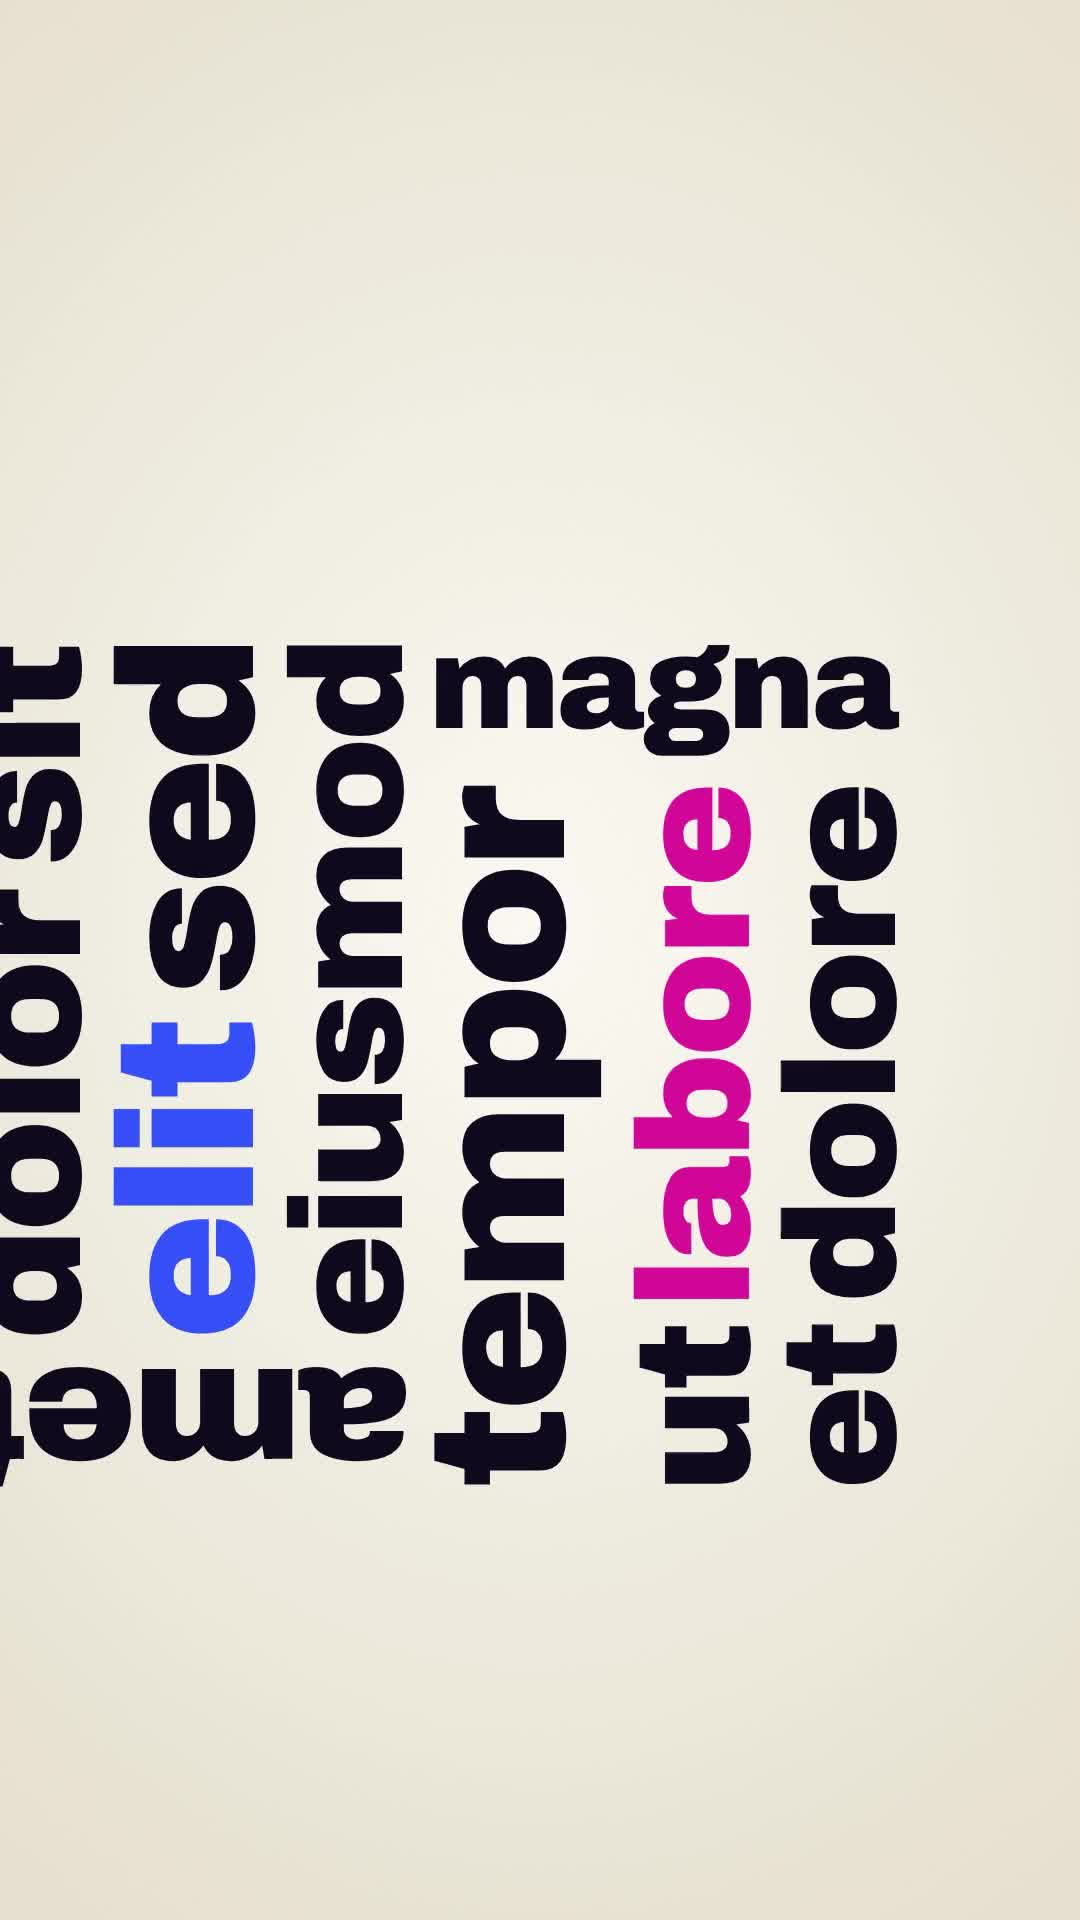
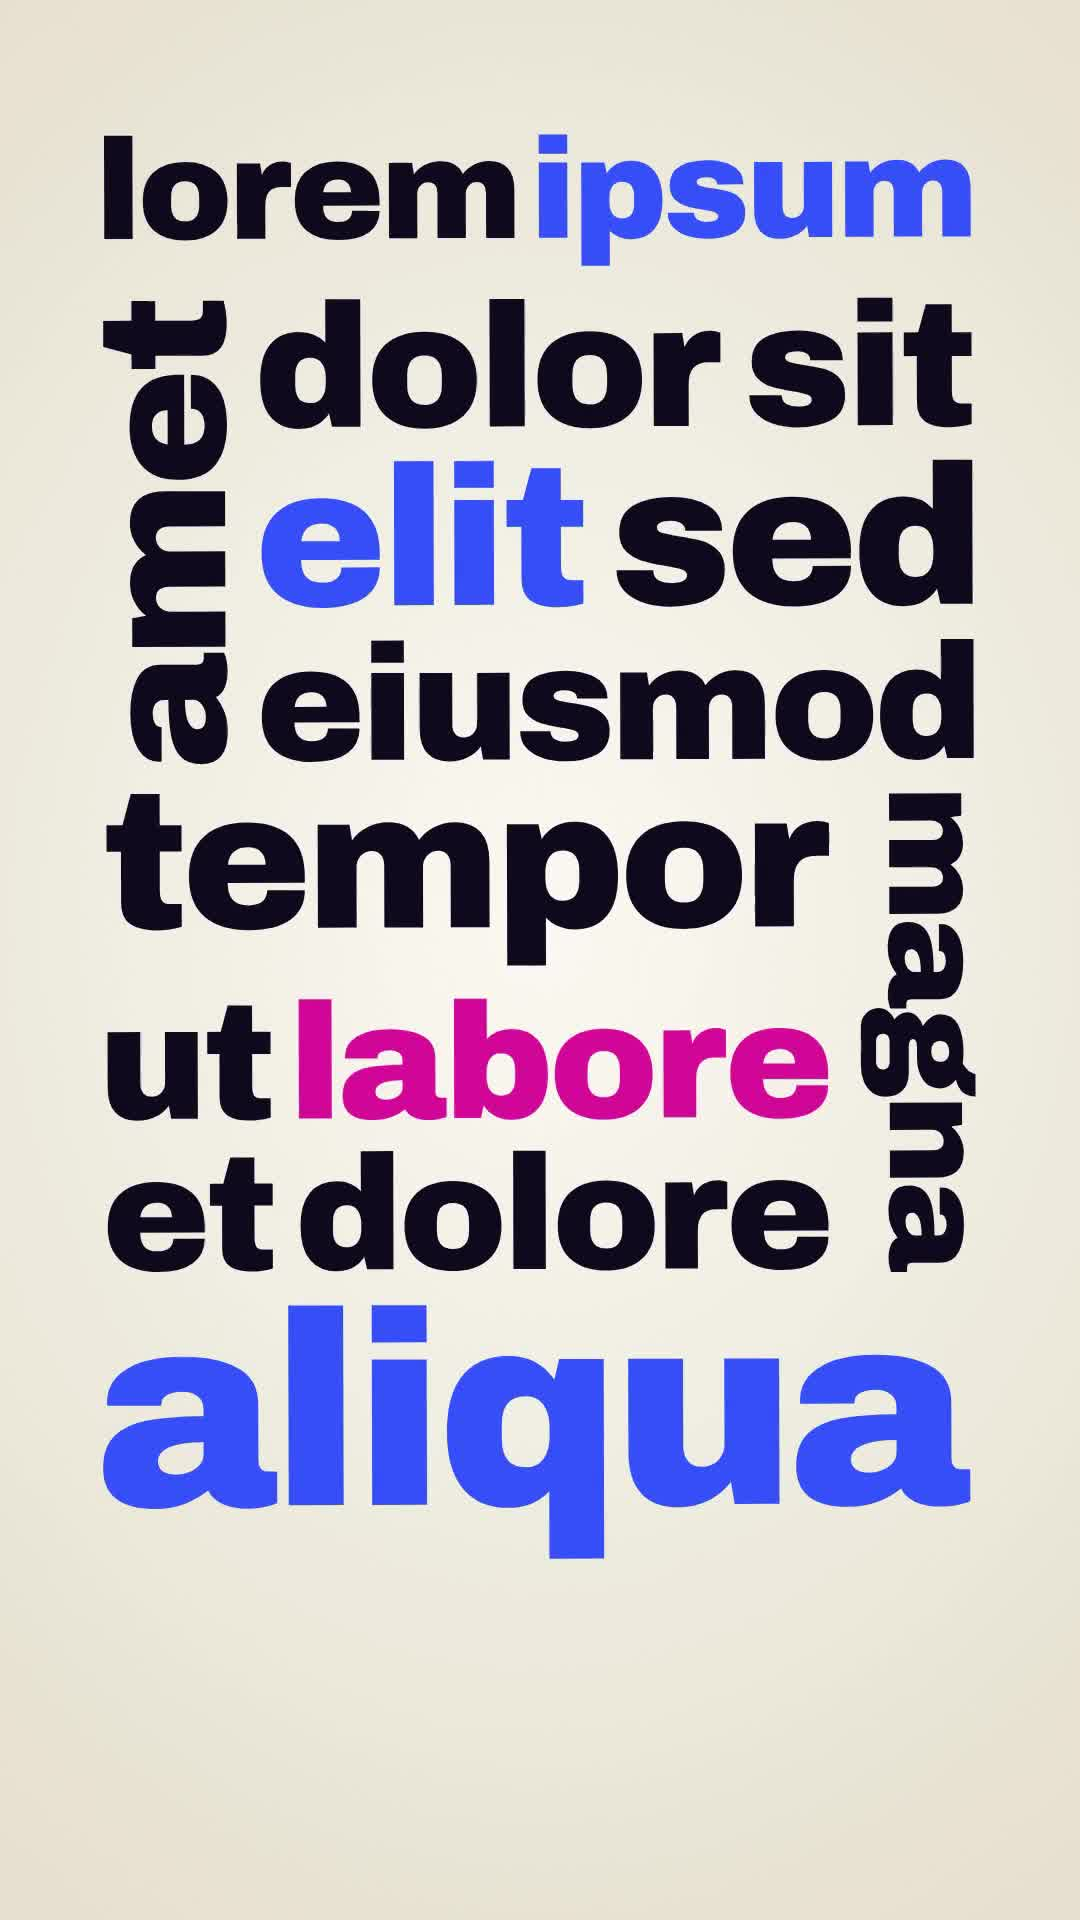
README: overview of all 40 styles and a shortcut per style
The overview image only showed styles 01-13; it now shows every style's
poster. The style table gains a Shortcut column with the /video-style
command for each style. Style 40's poster now shows the settled lockup.

Claude-Session: https://claude.ai/code/session_018Bi4wcjPGYnXSP41z1gKis

diff --git a/README.md b/README.md
@@ -1,51 +1,51 @@
 # video-style-templates
 
-40 vertical (9:16) video editing styles, reverse-engineered from reference reels and rebuilt as editable [HyperFrames](https://hyperframes.heygen.com) templates (HTML + GSAP → MP4). Packaged as a Claude Code plugin: apply a style with `/video-style <style> <brief>`.
+40 vertical (9:16) video editing styles, reverse-engineered from reference reels and rebuilt as editable [HyperFrames](https://hyperframes.heygen.com) templates (HTML + GSAP → MP4). Packaged as a Claude Code plugin: apply a style with `/video-style <style> <brief>`. Each style's shortcut is in the table below; the number works too (`/video-style 37`).
 
 ![overview](overview.jpg)
 
-| # | Style | Best for | Footage |
-|---|---|---|---|
-| 01 | [Kinetic Type Collage](styles/01-kinetic-type-collage/STYLE.md) | Metaphor stories told in type, colour fields, tumbling props | — |
-| 02 | [Editorial Halftone](styles/02-editorial-halftone/STYLE.md) | Magazine-style quote reels, halftone imagery, glitch beat, script sign-off | — |
-| 03 | [Creator Tool Promo](styles/03-creator-tool-promo/STYLE.md) | Talking-head tool demos: 3D hook words, keyword captions, split UI | ✔ |
-| 04 | [Poster Motion](styles/04-poster-motion/STYLE.md) | Animated poster series: condensed gradient headlines, cut-outs, swoosh | — |
-| 05 | [Frame-Rhythm Hook](styles/05-frame-rhythm-hook/STYLE.md) | Word-per-beat captions + frame-exact 8-3-3-4-5 B-roll burst | ✔ |
-| 06 | [Step-by-Step Studio](styles/06-step-by-step-studio/STYLE.md) | How-to talking heads: STEP titles, web-flow mockups, VHS smear | ✔ |
-| 07 | [Podcast Emphasis Captions](styles/07-podcast-emphasis-captions/STYLE.md) | Podcast clips: thin captions + giant coloured italic emphasis words | ✔ |
-| 08 | [Glass SaaS Explainer](styles/08-glass-saas-explainer/STYLE.md) | B2B/SaaS explainers: presenter cut-out, glass UI, metaphor objects | — |
-| 09 | [AI-World Kinetic Type](styles/09-ai-world-kinetic-type/STYLE.md) | Launch reels: multicolour, multi-font 3D word stacks around the presenter | ✔ |
-| 10 | [3D Metaphor Explainer](styles/10-3d-metaphor-explainer/STYLE.md) | Agency pitches: 3D objects, green blocks, red condensed type | — |
-| 11 | [Swiss Editorial](styles/11-swiss-editorial/STYLE.md) | Design-led quotes: grid, red block, B&W cut-outs, giant cropped type | — |
-| 12 | [Atmospheric Depth](styles/12-atmospheric-depth/STYLE.md) | Cinematic brand intros: rack focus, light shafts, ink blossoms (ES copy) | — |
-| 13 | [Animated Story Ad](styles/13-animated-story-ad/STYLE.md) | AI-animated DTC story ads with an offer end card | — |
-| 14 | [Fisheye Sphere Text](styles/14-fisheye-sphere-text/STYLE.md) | Hook titles on a fisheye sphere that snap-rolls line by line; gliding fisheye lens | — |
-| 15 | [Paper Cut-out Text](styles/15-paper-cutout-text/STYLE.md) | Bubble letters on torn paper: flutter / tear / stamp in, 12 fps stop motion | ✔ |
-| 16 | [Depth & Orbit Text](styles/16-depth-orbit-text/STYLE.md) | Words peek from behind the subject, helix climb, rising giant letters, depth tunnel | ✔ |
-| 17 | [Word-Pop Captions](styles/17-word-pop-captions/STYLE.md) | Rolling one-word captions, marker underlines, cursor select, circle-reveal cards | ✔ |
-| 18 | [Spiral Orbit Text](styles/18-spiral-orbit-text/STYLE.md) | A sentence sliding along a 3D spiral round the speaker's head, dive-through exit | ✔ |
-| 19 | [Halo Orbit Text](styles/19-halo-orbit-text/STYLE.md) | One line of words orbiting the speaker's head as a tilted halo | ✔ |
-| 20 | [Cube Roll Words](styles/20-cube-roll-words/STYLE.md) | Words on the faces of a 3D bar that tumbles in and rolls one face per beat | ✔ |
-| 21 | [Blinds Unfold Text](styles/21-blinds-unfold-text/STYLE.md) | Giant words cut into slats that swing open like venetian blinds | — |
-| 22 | [Domino Letters](styles/22-domino-letters/STYLE.md) | Thick extruded letters stand up like dominoes, then topple | — |
-| 23 | [Split-Flap Board](styles/23-split-flap-board/STYLE.md) | Departure-board tiles flip through letters into place | ✔ |
-| 24 | [Extruded Title Orbit](styles/24-extruded-title-orbit/STYLE.md) | Thick 3D block title; camera orbits, snaps face-on with a glare | — |
-| 25 | [Page Flip Words](styles/25-page-flip-words/STYLE.md) | One word per page of an open book; pages turn on the spine | — |
-| 26 | [Flag Wave Letters](styles/26-flag-wave-letters/STYLE.md) | Letters ripple like a flag, then a gust blows them away | ✔ |
-| 27 | [Echo Stack Text](styles/27-echo-stack-text/STYLE.md) | A deep trail of outline echoes that collapse into one solid word | — |
-| 28 | [Cube Unfold Text](styles/28-cube-unfold-text/STYLE.md) | A word on every face of a cube that unfolds flat into a cross | — |
-| 29 | [Horizon Crawl](styles/29-horizon-crawl/STYLE.md) | Lines glide away over a neon grid floor; the hero word stands up | — |
-| 30 | [Infinite Spiral Text](styles/30-infinite-spiral-text/STYLE.md) | A phrase streaming endlessly out of a spiral that fills the background | ✔ |
-| 31 | [Wall Perspective Text](styles/31-wall-perspective-text/STYLE.md) | Words painted on the side walls of a room, following their perspective | ✔ |
-| 32 | [Bend Text 3D](styles/32-bend-text-3d/STYLE.md) | A headline on a flexible sheet that bends, rolls into a tube and springs flat | — |
-| 33 | [Horizontal Orbit Text](styles/33-horizontal-orbit-text/STYLE.md) | Upright letters on a horizontal ring orbiting the speaker like a carousel | ✔ |
-| 34 | [3D Pop Letters](styles/34-3d-pop-letters/STYLE.md) | A flat word pops up into candy-coloured 3D blocks, spin-waves, sinks flat | — |
-| 35 | [Tag Pile Drop](styles/35-tag-pile-drop/STYLE.md) | Pill tags drop onto a table one by one into a heap, then fly back up | — |
-| 36 | [Paper Roll Unfold](styles/36-paper-roll-unfold/STYLE.md) | The words themselves roll up like a paper roll and unroll top to bottom | — |
-| 37 | [Snake Text](styles/37-snake-text/STYLE.md) | A sentence slithering diagonally in the shape of a snake, last word as the head | — |
-| 38 | [Contour Rings Text](styles/38-contour-rings-text/STYLE.md) | Lines of text nesting round the speaker's head like contour lines | ✔ |
-| 39 | [Camera Lockup Type](styles/39-camera-lockup-type/STYLE.md) | Words flip in to build a justified block while the camera frames each one | — |
-| 40 | [Turning Camera Type](styles/40-turning-camera-type/STYLE.md) | A flush word puzzle with sideways words; the camera turns 90° to read each one | — |
+| # | Style | Shortcut | Best for | Footage |
+|---|---|---|---|---|
+| 01 | [Kinetic Type Collage](styles/01-kinetic-type-collage/STYLE.md) | `/video-style kinetic-type-collage` | Metaphor stories told in type, colour fields, tumbling props | — |
+| 02 | [Editorial Halftone](styles/02-editorial-halftone/STYLE.md) | `/video-style editorial-halftone` | Magazine-style quote reels, halftone imagery, glitch beat, script sign-off | — |
+| 03 | [Creator Tool Promo](styles/03-creator-tool-promo/STYLE.md) | `/video-style creator-tool-promo` | Talking-head tool demos: 3D hook words, keyword captions, split UI | ✔ |
+| 04 | [Poster Motion](styles/04-poster-motion/STYLE.md) | `/video-style poster-motion` | Animated poster series: condensed gradient headlines, cut-outs, swoosh | — |
+| 05 | [Frame-Rhythm Hook](styles/05-frame-rhythm-hook/STYLE.md) | `/video-style frame-rhythm-hook` | Word-per-beat captions + frame-exact 8-3-3-4-5 B-roll burst | ✔ |
+| 06 | [Step-by-Step Studio](styles/06-step-by-step-studio/STYLE.md) | `/video-style step-by-step-studio` | How-to talking heads: STEP titles, web-flow mockups, VHS smear | ✔ |
+| 07 | [Podcast Emphasis Captions](styles/07-podcast-emphasis-captions/STYLE.md) | `/video-style podcast-emphasis-captions` | Podcast clips: thin captions + giant coloured italic emphasis words | ✔ |
+| 08 | [Glass SaaS Explainer](styles/08-glass-saas-explainer/STYLE.md) | `/video-style glass-saas-explainer` | B2B/SaaS explainers: presenter cut-out, glass UI, metaphor objects | — |
+| 09 | [AI-World Kinetic Type](styles/09-ai-world-kinetic-type/STYLE.md) | `/video-style ai-world-kinetic-type` | Launch reels: multicolour, multi-font 3D word stacks around the presenter | ✔ |
+| 10 | [3D Metaphor Explainer](styles/10-3d-metaphor-explainer/STYLE.md) | `/video-style 3d-metaphor-explainer` | Agency pitches: 3D objects, green blocks, red condensed type | — |
+| 11 | [Swiss Editorial](styles/11-swiss-editorial/STYLE.md) | `/video-style swiss-editorial` | Design-led quotes: grid, red block, B&W cut-outs, giant cropped type | — |
+| 12 | [Atmospheric Depth](styles/12-atmospheric-depth/STYLE.md) | `/video-style atmospheric-depth` | Cinematic brand intros: rack focus, light shafts, ink blossoms (ES copy) | — |
+| 13 | [Animated Story Ad](styles/13-animated-story-ad/STYLE.md) | `/video-style animated-story-ad` | AI-animated DTC story ads with an offer end card | — |
+| 14 | [Fisheye Sphere Text](styles/14-fisheye-sphere-text/STYLE.md) | `/video-style fisheye-sphere-text` | Hook titles on a fisheye sphere that snap-rolls line by line; gliding fisheye lens | — |
+| 15 | [Paper Cut-out Text](styles/15-paper-cutout-text/STYLE.md) | `/video-style paper-cutout-text` | Bubble letters on torn paper: flutter / tear / stamp in, 12 fps stop motion | ✔ |
+| 16 | [Depth & Orbit Text](styles/16-depth-orbit-text/STYLE.md) | `/video-style depth-orbit-text` | Words peek from behind the subject, helix climb, rising giant letters, depth tunnel | ✔ |
+| 17 | [Word-Pop Captions](styles/17-word-pop-captions/STYLE.md) | `/video-style word-pop-captions` | Rolling one-word captions, marker underlines, cursor select, circle-reveal cards | ✔ |
+| 18 | [Spiral Orbit Text](styles/18-spiral-orbit-text/STYLE.md) | `/video-style spiral-orbit-text` | A sentence sliding along a 3D spiral round the speaker's head, dive-through exit | ✔ |
+| 19 | [Halo Orbit Text](styles/19-halo-orbit-text/STYLE.md) | `/video-style halo-orbit-text` | One line of words orbiting the speaker's head as a tilted halo | ✔ |
+| 20 | [Cube Roll Words](styles/20-cube-roll-words/STYLE.md) | `/video-style cube-roll-words` | Words on the faces of a 3D bar that tumbles in and rolls one face per beat | ✔ |
+| 21 | [Blinds Unfold Text](styles/21-blinds-unfold-text/STYLE.md) | `/video-style blinds-unfold-text` | Giant words cut into slats that swing open like venetian blinds | — |
+| 22 | [Domino Letters](styles/22-domino-letters/STYLE.md) | `/video-style domino-letters` | Thick extruded letters stand up like dominoes, then topple | — |
+| 23 | [Split-Flap Board](styles/23-split-flap-board/STYLE.md) | `/video-style split-flap-board` | Departure-board tiles flip through letters into place | ✔ |
+| 24 | [Extruded Title Orbit](styles/24-extruded-title-orbit/STYLE.md) | `/video-style extruded-title-orbit` | Thick 3D block title; camera orbits, snaps face-on with a glare | — |
+| 25 | [Page Flip Words](styles/25-page-flip-words/STYLE.md) | `/video-style page-flip-words` | One word per page of an open book; pages turn on the spine | — |
+| 26 | [Flag Wave Letters](styles/26-flag-wave-letters/STYLE.md) | `/video-style flag-wave-letters` | Letters ripple like a flag, then a gust blows them away | ✔ |
+| 27 | [Echo Stack Text](styles/27-echo-stack-text/STYLE.md) | `/video-style echo-stack-text` | A deep trail of outline echoes that collapse into one solid word | — |
+| 28 | [Cube Unfold Text](styles/28-cube-unfold-text/STYLE.md) | `/video-style cube-unfold-text` | A word on every face of a cube that unfolds flat into a cross | — |
+| 29 | [Horizon Crawl](styles/29-horizon-crawl/STYLE.md) | `/video-style horizon-crawl` | Lines glide away over a neon grid floor; the hero word stands up | — |
+| 30 | [Infinite Spiral Text](styles/30-infinite-spiral-text/STYLE.md) | `/video-style infinite-spiral-text` | A phrase streaming endlessly out of a spiral that fills the background | ✔ |
+| 31 | [Wall Perspective Text](styles/31-wall-perspective-text/STYLE.md) | `/video-style wall-perspective-text` | Words painted on the side walls of a room, following their perspective | ✔ |
+| 32 | [Bend Text 3D](styles/32-bend-text-3d/STYLE.md) | `/video-style bend-text-3d` | A headline on a flexible sheet that bends, rolls into a tube and springs flat | — |
+| 33 | [Horizontal Orbit Text](styles/33-horizontal-orbit-text/STYLE.md) | `/video-style horizontal-orbit-text` | Upright letters on a horizontal ring orbiting the speaker like a carousel | ✔ |
+| 34 | [3D Pop Letters](styles/34-3d-pop-letters/STYLE.md) | `/video-style 3d-pop-letters` | A flat word pops up into candy-coloured 3D blocks, spin-waves, sinks flat | — |
+| 35 | [Tag Pile Drop](styles/35-tag-pile-drop/STYLE.md) | `/video-style tag-pile-drop` | Pill tags drop onto a table one by one into a heap, then fly back up | — |
+| 36 | [Paper Roll Unfold](styles/36-paper-roll-unfold/STYLE.md) | `/video-style paper-roll-unfold` | The words themselves roll up like a paper roll and unroll top to bottom | — |
+| 37 | [Snake Text](styles/37-snake-text/STYLE.md) | `/video-style snake-text` | A sentence slithering diagonally in the shape of a snake, last word as the head | — |
+| 38 | [Contour Rings Text](styles/38-contour-rings-text/STYLE.md) | `/video-style contour-rings-text` | Lines of text nesting round the speaker's head like contour lines | ✔ |
+| 39 | [Camera Lockup Type](styles/39-camera-lockup-type/STYLE.md) | `/video-style camera-lockup-type` | Words flip in to build a justified block while the camera frames each one | — |
+| 40 | [Turning Camera Type](styles/40-turning-camera-type/STYLE.md) | `/video-style turning-camera-type` | A flush word puzzle with sideways words; the camera turns 90° to read each one | — |
 
 Each style folder has `STYLE.md` (the spec), `template/` (the HyperFrames project), `preview.mp4` and `poster.jpg`.
 
